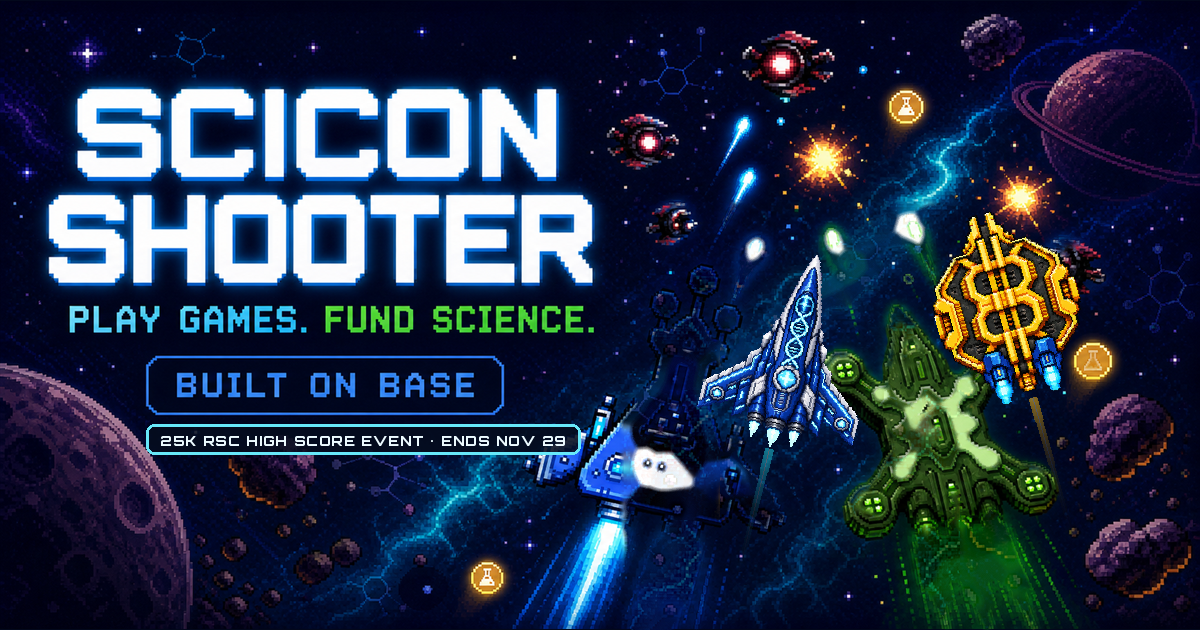
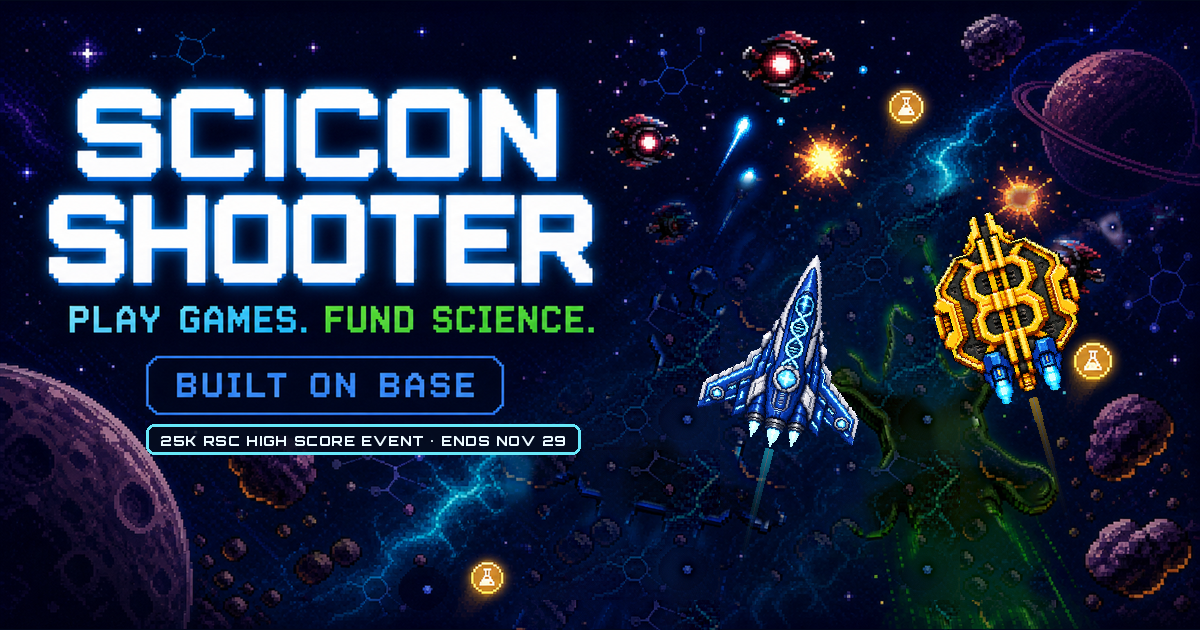
Clear the old Bio and RSC ships off the share-card plate.
The right side is rebuilt from clean space on the card, then only the NIH and Bitcoin sprites are placed, each with its own engine trail.

diff --git a/tools/render-social-share-card.py b/tools/render-social-share-card.py
@@ -46,8 +46,11 @@ SAFE_BOTTOM = 528
 # Extended-canvas coordinates (the 628px source is pasted at y=1).
 # SHOOTER's R ends at x=591. PLAY GAMES / FUND SCIENCE ends at x=593.
 # The Built on Base pill occupies y=356..414, x=146..504.
-TEXT_RIGHT = 612
-PILL_BOTTOM = 416
+# The old blue flame continues down-left to about x=520, so the plate
+# repair is allowed there. The title block itself stays pixel-identical.
+TEXT_RIGHT = 620
+PILL_BOTTOM = 422
+KEEP_LEFT = 490
 BADGE_LEFT = 146
 BADGE_TOP = 424
 SHIP_LEFT = 618
@@ -68,48 +71,85 @@ def extend_canvas(source: Image.Image) -> np.ndarray:
     return plate
 
 
+def protect_plate(image: np.ndarray, plate: np.ndarray) -> np.ndarray:
+    """Put the title, the pill, the moon, and the far-left art back."""
+    image = image.copy()
+    image[:, :KEEP_LEFT] = plate[:, :KEEP_LEFT]
+    image[:292, :TEXT_RIGHT] = plate[:292, :TEXT_RIGHT]
+    image[292:352, :640] = plate[292:352, :640]
+    image[346:PILL_BOTTOM, :540] = plate[346:PILL_BOTTOM, :540]
+    return image
+
+
 def old_ship_mask(plate: np.ndarray) -> np.ndarray:
-    """Ship-shaped mask only. Title, pill, and the whole left column stay out."""
+    """Full Bio and RSC hulls, including the yellow-green body and the blue flame."""
     red = plate[:, :, 0].astype(np.int16)
     green = plate[:, :, 1].astype(np.int16)
     blue = plate[:, :, 2].astype(np.int16)
     xs = np.arange(WIDTH)[None, :]
     ys = np.arange(HEIGHT)[:, None]
-    blue_ship = (blue > 100) & (blue > red + 36) & (blue + 6 > green) & (red < 170) & (xs >= SHIP_LEFT) & (ys > 200)
-    green_ship = (green > 90) & (green > red + 30) & (green + 8 > blue) & (red < 160) & (xs > 800) & (ys > 170)
-    hot = (red > 190) & (green > 170) & (blue > 150) & (xs >= SHIP_LEFT) & (ys > 250) & (ys < 600)
-    raw = (blue_ship | green_ship | hot).astype(np.uint8)
-    count, labels, stats, _ = cv2.connectedComponentsWithStats(raw, 8)
-    keep = np.zeros_like(raw)
-    for index in range(1, count):
-        if stats[index, cv2.CC_STAT_AREA] >= 40:
-            keep[labels == index] = 255
-    keep = cv2.dilate(keep, cv2.getStructuringElement(cv2.MORPH_ELLIPSE, (7, 7)), iterations=1)
-    keep[:, :SHIP_LEFT] = 0
-    keep[:170, :] = 0
-    return keep
+    blue_ship = (blue > 72) & (blue > red + 24) & (blue + 40 > green) & (ys > 175) & (xs > 500)
+    # The RSC hull is bright yellow-green, so red is high and the old red<175 test missed it.
+    green_ship = (green > 78) & (green + 14 >= red) & (green > blue + 12) & (green > red * 0.72) & (xs > 760) & (ys > 175)
+    hot = (red > 170) & (green > 170) & (blue > 145) & (xs > 500) & (ys > 340) & (xs < 900)
+    raw = (blue_ship | green_ship | hot).astype(np.uint8) * 255
+    raw = cv2.morphologyEx(raw, cv2.MORPH_CLOSE, cv2.getStructuringElement(cv2.MORPH_ELLIPSE, (19, 19)))
+    raw = cv2.dilate(raw, cv2.getStructuringElement(cv2.MORPH_ELLIPSE, (7, 7)))
+    # Far-right planets and asteroids stay. They read red/purple, not ship green.
+    planet = (red > green + 8) & (red > 55) & (xs > 1060)
+    raw[planet] = 0
+    sentinel = np.zeros_like(plate)
+    sentinel[raw > 0] = 255
+    sentinel = protect_plate(sentinel, np.zeros_like(plate))
+    return sentinel[:, :, 0]
 
 
 def cover_old_ships(plate: np.ndarray) -> np.ndarray:
-    """Fill the old ship shapes from neighboring art. No rectangle, no static."""
+    """Replace the old ships by cloning clean space from the plate. No rectangle of noise."""
     mask = old_ship_mask(plate)
-    painted = cv2.inpaint(cv2.cvtColor(plate, cv2.COLOR_RGB2BGR), mask, 5, cv2.INPAINT_TELEA)
+    painted = cv2.inpaint(cv2.cvtColor(plate, cv2.COLOR_RGB2BGR), mask, 12, cv2.INPAINT_TELEA)
     painted = cv2.cvtColor(painted, cv2.COLOR_BGR2RGB).astype(np.float32)
-    # High-frequency stars borrowed from a real patch of empty space under the pill.
-    donor = plate[470:600, 230:470].astype(np.float32)
-    detail = donor - cv2.GaussianBlur(donor, (0, 0), 4)
+    # Stars and nebula grain taken from empty space under the title, left of the flame.
+    donor = plate[470:620, 220:460].astype(np.float32)
+    detail = donor - cv2.GaussianBlur(donor, (0, 0), 4.5)
     tiled = np.zeros_like(painted)
     th, tw = detail.shape[:2]
     for y in range(0, HEIGHT, th):
         for x in range(0, WIDTH, tw):
             tiled[y : y + th, x : x + tw] = detail[: min(th, HEIGHT - y), : min(tw, WIDTH - x)]
     distance = cv2.distanceTransform((mask > 0).astype(np.uint8), cv2.DIST_L2, 3)
-    alpha = np.clip((distance - 1.5) / 5.0, 0, 1)[..., None]
-    mixed = plate.astype(np.float32) * (1 - alpha) + (painted + tiled * 0.65) * alpha
-    result = np.clip(mixed, 0, 255).astype(np.uint8)
-    # The title, the pill, and the moon stay pixel-identical. Ships live to the right.
-    result[:, :SHIP_LEFT] = plate[:, :SHIP_LEFT]
+    alpha = np.clip((distance - 2.0) / 8.0, 0, 1)[..., None]
+    mixed = plate.astype(np.float32) * (1 - alpha) + (painted + tiled * 0.8) * alpha
+    result = protect_plate(np.clip(mixed, 0, 255).astype(np.uint8), plate)
+    assert_old_ships_gone(plate, result)
     return result
+
+
+def assert_old_ships_gone(source: np.ndarray, repaired: np.ndarray) -> None:
+    """Ship-colored pixels from the original plate must not survive outside the title."""
+    red = source[:, :, 0].astype(np.int16)
+    green = source[:, :, 1].astype(np.int16)
+    blue = source[:, :, 2].astype(np.int16)
+    xs = np.arange(WIDTH)[None, :]
+    ys = np.arange(HEIGHT)[:, None]
+    unchanged = np.abs(repaired.astype(np.int16) - source.astype(np.int16)).max(axis=2) < 10
+    zone = (ys > 175) & (xs > 500) & (xs < 1060)
+    zone[:292, :TEXT_RIGHT] = False
+    zone[292:352, :640] = False
+    zone[346:PILL_BOTTOM, :540] = False
+    zone[:, :KEEP_LEFT] = False
+    blue_ship = zone & (blue > 110) & (blue > red + 35) & (blue > green)
+    green_ship = zone & (green > 130) & (green + 10 >= red) & (green > blue + 18) & (xs > 760)
+    still = unchanged & (blue_ship | green_ship)
+    count, labels, stats, _ = cv2.connectedComponentsWithStats(still.astype(np.uint8), 8)
+    leftovers = []
+    for index in range(1, count):
+        if stats[index, cv2.CC_STAT_AREA] > 120:
+            x, y, w, h, area = stats[index]
+            leftovers.append((int(area), int(x), int(y), int(w), int(h)))
+    if leftovers:
+        raise SystemExit(f"old ship pixels remain: {leftovers[:8]}")
+    print(f"old ships cleared, mask leftovers under 120px")
 
 
 def trim_sprite(path: Path, target_h: int) -> Image.Image:
@@ -218,7 +258,7 @@ def draw_badge(base: Image.Image) -> tuple[Image.Image, tuple[int, int, int, int
     pad_x, pad_y = 14, 8
     left, top = BADGE_LEFT, BADGE_TOP
     right, bottom = left + text_w + pad_x * 2, top + font.size + pad_y * 2
-    if top < PILL_BOTTOM + 6:
+    if top < PILL_BOTTOM:
         raise SystemExit(f"badge overlaps the Built on Base pill: top {top}")
     if right > SHIP_LEFT - 8:
         raise SystemExit(f"badge runs into the ships: right {right}")
@@ -242,14 +282,14 @@ def assert_layout(
 ) -> None:
     pixels = np.array(image.convert("RGB"))
     protected = [
-        (0, 0, TEXT_RIGHT, PILL_BOTTOM, "title-column"),
-        (0, PILL_BOTTOM, BADGE_LEFT - 4, HEIGHT, "moon-column"),
+        (0, 0, KEEP_LEFT, BADGE_TOP, "left-art"),
+        (0, BADGE_TOP, BADGE_LEFT - 4, HEIGHT, "below-left"),
+        (0, 0, TEXT_RIGHT, 292, "title"),
+        (0, 292, 640, 352, "subtitle"),
+        (0, 346, 540, PILL_BOTTOM, "pill"),
     ]
-    if badge_box is not None:
-        _left, _top, _right, bottom = badge_box
-        protected.append((0, bottom + 2, TEXT_RIGHT, HEIGHT, "below-badge"))
-    else:
-        protected.append((0, PILL_BOTTOM, TEXT_RIGHT, HEIGHT, "below-pill"))
+    if badge_box is None:
+        protected.append((BADGE_LEFT - 4, BADGE_TOP, KEEP_LEFT, HEIGHT, "under-pill"))
     for x0, y0, x1, y1, name in protected:
         delta = np.abs(pixels[y0:y1, x0:x1].astype(int) - source[y0:y1, x0:x1].astype(int)).max()
         if delta != 0:
@@ -263,10 +303,10 @@ def assert_layout(
         print(f"ship {box}")
     if badge_box is not None:
         left, top, right, bottom = badge_box
-        gap = np.abs(pixels[PILL_BOTTOM:top, :TEXT_RIGHT].astype(int) - source[PILL_BOTTOM:top, :TEXT_RIGHT].astype(int)).max()
+        gap = np.abs(pixels[PILL_BOTTOM:top, :540].astype(int) - source[PILL_BOTTOM:top, :540].astype(int)).max()
         if gap != 0:
             raise SystemExit("badge overlaps the Built on Base pill")
-        if top < PILL_BOTTOM + 6 or left < BADGE_LEFT:
+        if top < PILL_BOTTOM or left < BADGE_LEFT:
             raise SystemExit("badge overlaps Built on Base")
         region = pixels[top:bottom, left:right]
         bright = (region[:, :, 0] > 200) & (region[:, :, 1] > 220) & (region[:, :, 2] > 230)
